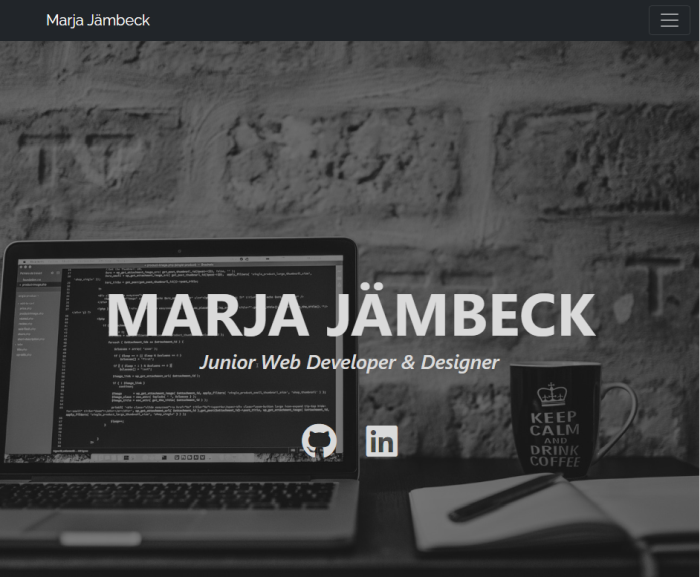
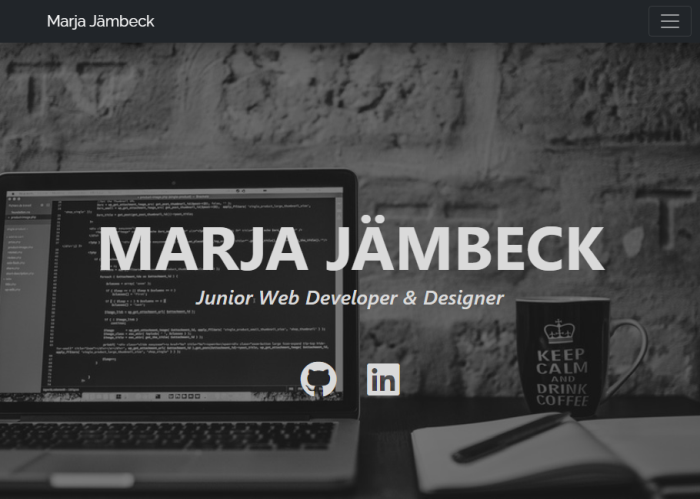
img sizes

diff --git a/dev_portfolio/dokumentointi.md b/dev_portfolio/dokumentointi.md
@@ -171,7 +171,7 @@ Parannukset Pagespeed-tuloksiin uudella portfoliolla:
 ![Mobile_new](pagespeed_new_mobile.png)
 
 Varsinkin mobiiliversion pagespeed parani siis huomattavasti, joten vaikka tulos näyttää vielä että jotain pientä viilattavaa voisi ollakin vielä, olen oikein tyytyväinen lopputulokseen.
-PageSpeed ehdotti erityisesti sivun kuvien muuttamista seuraavan sukupolven muotoihin (JPEG 2000, JPEG XR ja WebP)
+PageSpeed ehdotti erityisesti yhä sivun kuvien muuttamista seuraavan sukupolven muotoihin (JPEG 2000, JPEG XR ja WebP) ja joidenkin kuvien kokojen kutistamista entisestään.
 Lisäksi korostan huomiota että koska tein harjoitustyöhön liittyvän kaiken kehitystyön Githubissa ja ensin Githubiin julkaistavan sivun parissa (josta Gitlabiin julkaisemani versio on vain kopio), kaikki PageSpeed-tulokset koskevat siis Githubin sivuversiota. En testannut PageSpeediä Gitlab-sivuun sivun sinne kopioinnin jälkeen, koska se sivu ei tule olemaan julkisesti saatavilla muuten kuin tämän harjoitustyön muodossa.
 
 ## Yleisiä mietteitä työn kulusta ja mitä tuli opittua
